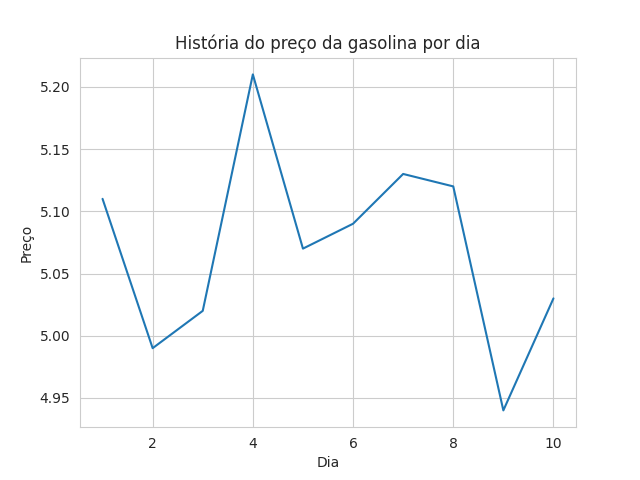
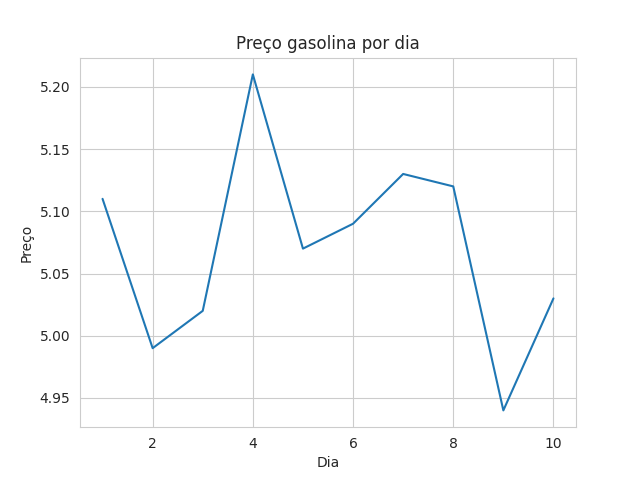
titulo do grafico alterado

Changed region(s): [[0.2812, 0.0625, 0.75, 0.125]]

diff --git a/gasolina.py b/gasolina.py
@@ -2,9 +2,9 @@ import pandas as pd
 import seaborn as sns
 import matplotlib.pyplot as plt
 
-data = pd.read_csv('./gasolina.csv')
+gas = pd.read_csv('./gasolina.csv')
 
 with sns.axes_style('whitegrid'):
-  grafico = sns.lineplot(data=data, x='dia', y='venda', palette='dark')
-  grafico.set(title='História do preço da gasolina por dia', xlabel='Dia', ylabel='Preço')
+  grafico = sns.lineplot(data=gas, x='dia', y='venda', palette='pastel')
+  grafico.set(title='Preço gasolina por dia', xlabel='Dia', ylabel='Preço')
   plt.savefig('gasolina.png')
